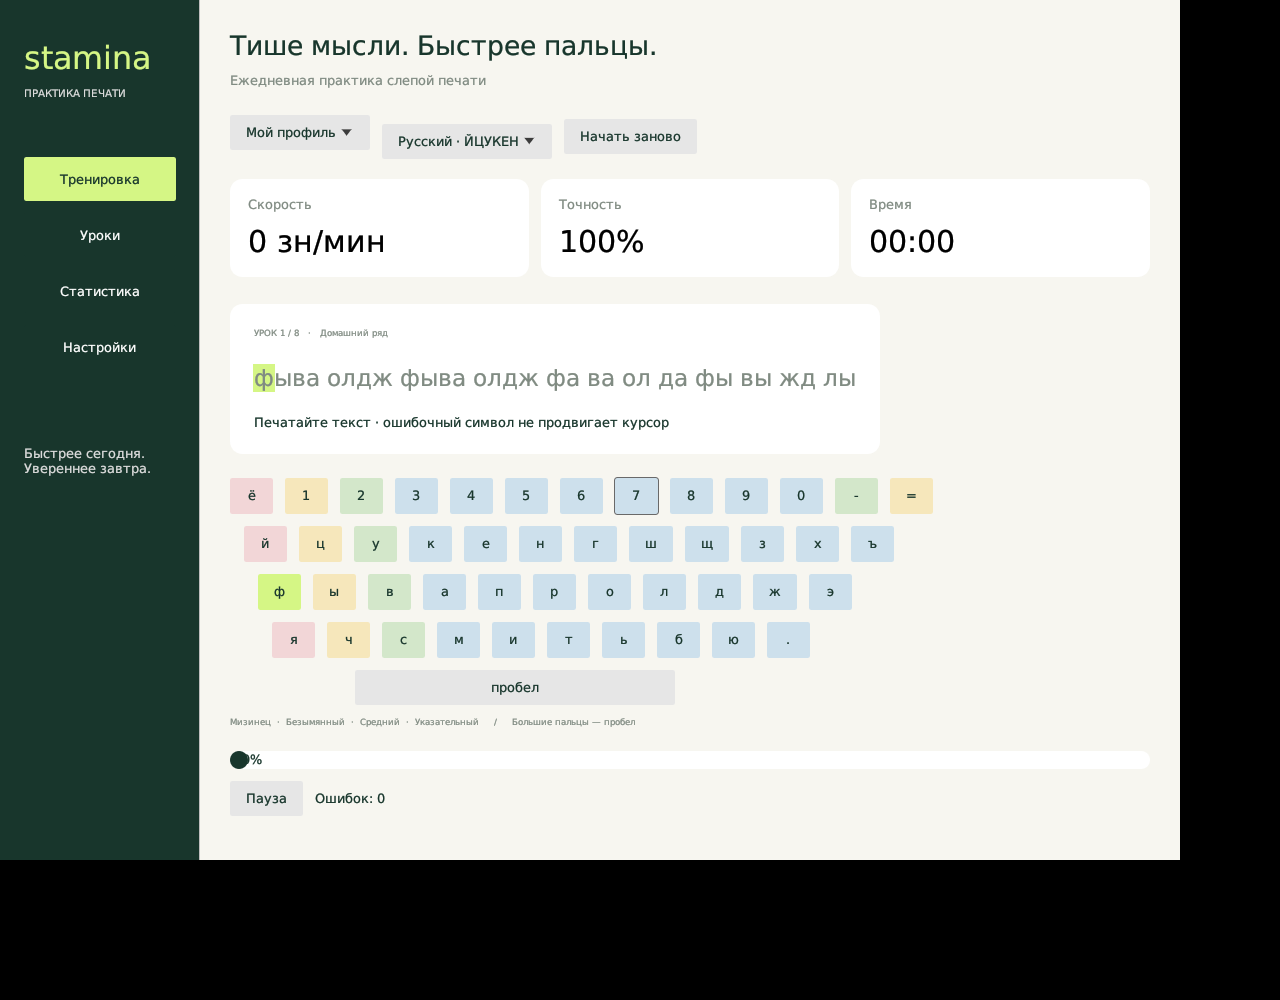
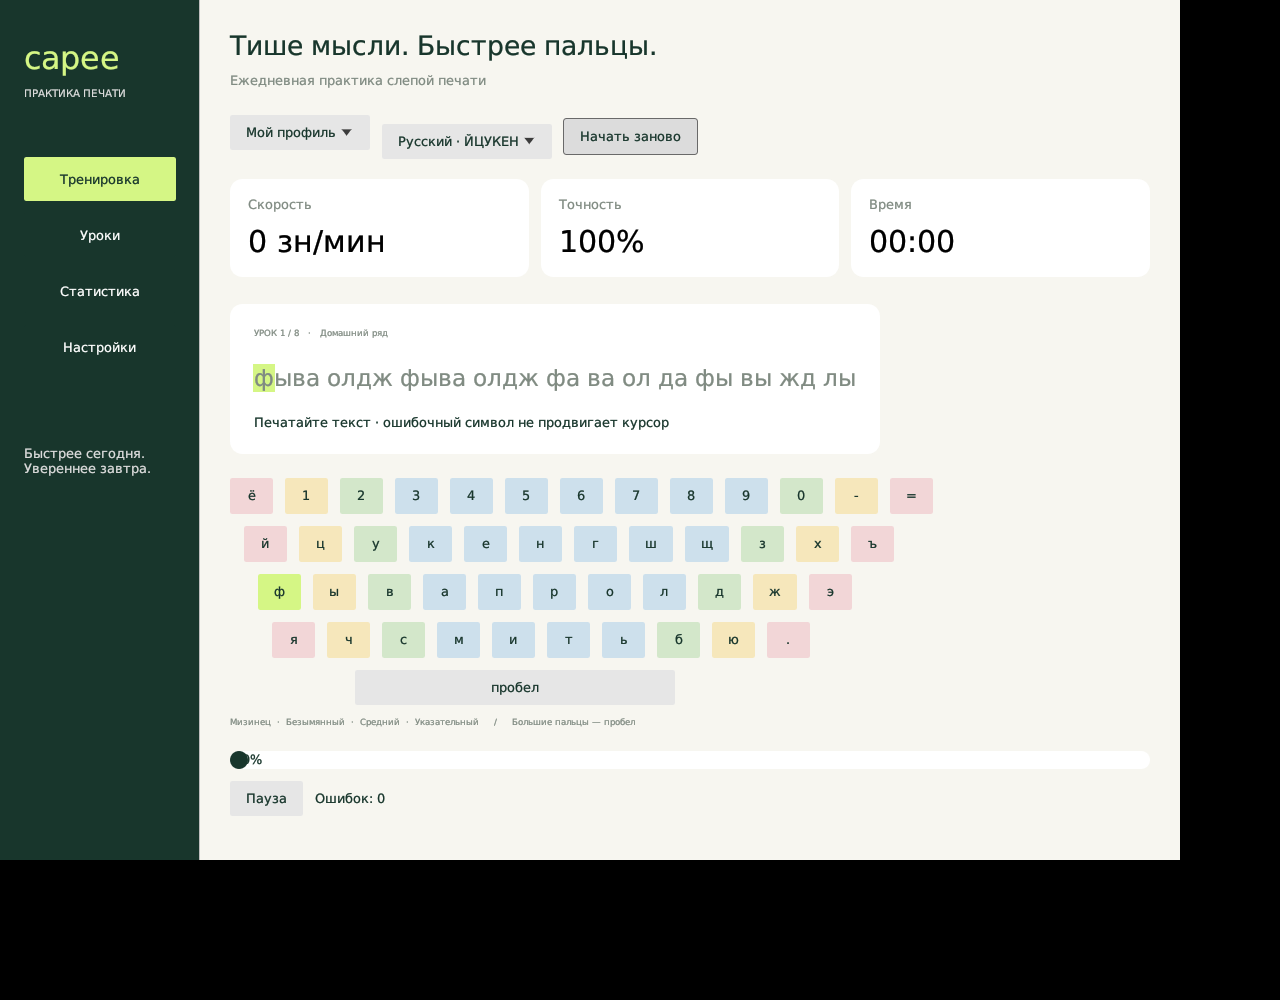
Rename application to Capee and document CachyOS installation

Changed region(s): [[0.5, 0.465, 0.75, 0.682], [0.0312, 0.031, 0.125, 0.093]]

diff --git a/src/main.rs b/src/main.rs
@@ -153,7 +153,7 @@ impl App {
             .map(PathBuf::from)
             .or_else(|| std::env::var_os("HOME").map(|h| PathBuf::from(h).join(".local/share")))
             .unwrap_or_else(std::env::temp_dir);
-        let path = root.join("stamina/history.json");
+        let path = root.join("capee/history.json");
         let mut notice = String::new();
         let data=match std::fs::read(&path){Ok(b)=>serde_json::from_slice(&b).unwrap_or_else(|_|{notice="Файл истории повреждён. Сохранение отключено: сохраните резервную копию и исправьте файл.".into();Data::default()}),Err(e) if e.kind()==std::io::ErrorKind::NotFound=>Data::default(),Err(e)=>{notice=format!("Не удалось прочитать историю: {e}");Data::default()}};
         Self {
@@ -246,7 +246,7 @@ impl eframe::App for App {
             .frame(egui::Frame::new().fill(GREEN).inner_margin(24.))
             .show(ctx, |ui| {
                 ui.add_space(15.);
-                ui.label(RichText::new("stamina").size(32.).color(LIME).strong());
+                ui.label(RichText::new("capee").size(32.).color(LIME).strong());
                 ui.label(
                     RichText::new("ПРАКТИКА ПЕЧАТИ")
                         .size(10.)
@@ -301,7 +301,7 @@ impl eframe::App for App {
 }
 fn main() -> eframe::Result {
     eframe::run_native(
-        "Stamina — практика печати",
+        "Capee — практика печати",
         eframe::NativeOptions {
             viewport: egui::ViewportBuilder::default()
                 .with_inner_size([1180., 860.])

diff --git a/README.md b/README.md
@@ -1,17 +1,17 @@
-# Stamina
+# Capee
 
 Нативный клавиатурный тренажёр на Rust + egui. Минималистичный интерфейс,
 32 авторских урока: русский, английский, Python, C++. Работает офлайн после сборки.
 
 ## Установка Linux x86_64
 
-Распакуйте `dist/stamina-linux-x86_64.tar.gz`, откройте терминал в полученной папке
-и выполните `sh install.sh`. После этого откройте **Stamina** в меню приложений.
-Права администратора не нужны. Можно также запустить файл `stamina` напрямую.
+Распакуйте `dist/capee-linux-x86_64.tar.gz`, откройте терминал в полученной папке
+и выполните `sh install.sh`. После этого откройте **Capee** в меню приложений.
+Права администратора не нужны. Можно также запустить файл `capee` напрямую.
 Нужна Linux-система с glibc 2.39+ и графическим сеансом X11/Wayland, OpenGL,
 libxkbcommon. Сборка проверяется на Debian 13; Windows/macOS пакетов пока нет.
-Удаление: удалите `~/.local/share/stamina/app`, ярлык
-`~/.local/share/applications/stamina.desktop` и иконку stamina.svg из
+Удаление: удалите `~/.local/share/capee/app`, ярлык
+`~/.local/share/applications/capee.desktop` и иконку capee.svg из
 `~/.local/share/icons/hicolor/scalable/apps`. Историю можно сохранить отдельно.
 При нестандартном XDG_DATA_HOME используйте соответствующий каталог.
 
@@ -34,10 +34,28 @@ Enter вводит новую строку, Tab — четыре пробела.
 точность — доля верных нажатий. Новый урок выбирается вручную, рекомендуемая
 точность перехода — 95%. Свой текст можно вставить на странице уроков.
 
-Профили и результаты хранятся в `$XDG_DATA_HOME/stamina/history.json`
-(по умолчанию `~/.local/share/stamina/history.json`). История хранится локально,
+Профили и результаты хранятся в `$XDG_DATA_HOME/capee/history.json`
+(по умолчанию `~/.local/share/capee/history.json`). История хранится локально,
 без аккаунтов и облачной синхронизации. Не запускайте несколько экземпляров
 одновременно: совместная запись истории пока не поддерживается.
 Звук ошибки опционален, требует `canberra-gtk-play`; фоновой музыки пока нет.
-Методика и ограничения источников описаны в SOURCES.md. Дизайн-концепт:
-assets/concept.png. Код уроков не исполняется.
+Методика и ограничения источников описаны в SOURCES.md. Код уроков не исполняется.
+
+## Установка на CachyOS (из исходников)
+
+Откройте Konsole и выполните:
+
+```bash
+sudo pacman -S --needed git rust base-devel libxkbcommon libx11 libxcursor libxi libxrandr mesa
+git clone --branch work https://github.com/Kor1n3110/Capee.git
+cd Capee
+sh scripts/package.sh
+cd dist/capee-linux-x86_64
+sh install.sh
+```
+
+После установки откройте **Capee** в меню приложений. При сборке нужны Интернет
+и несколько минут; после установки приложение работает офлайн. Rust/Cargo нужны
+только для сборки. Проверено на Debian 13; на CachyOS отдельно не тестировалось.
+Если репозиторий уже скачан: в его папке выполните `git pull --ff-only`, затем
+повторите команды начиная с `sh scripts/package.sh`.
